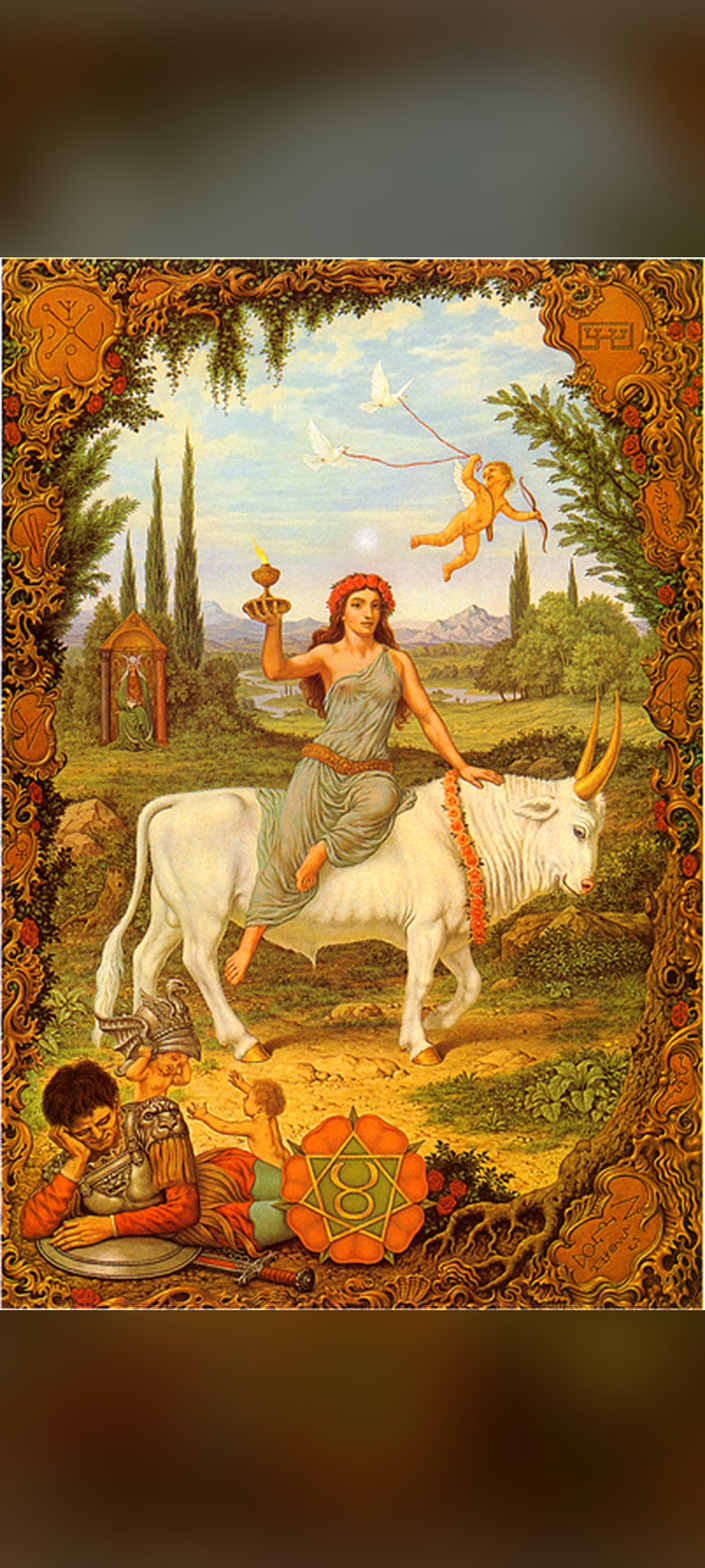
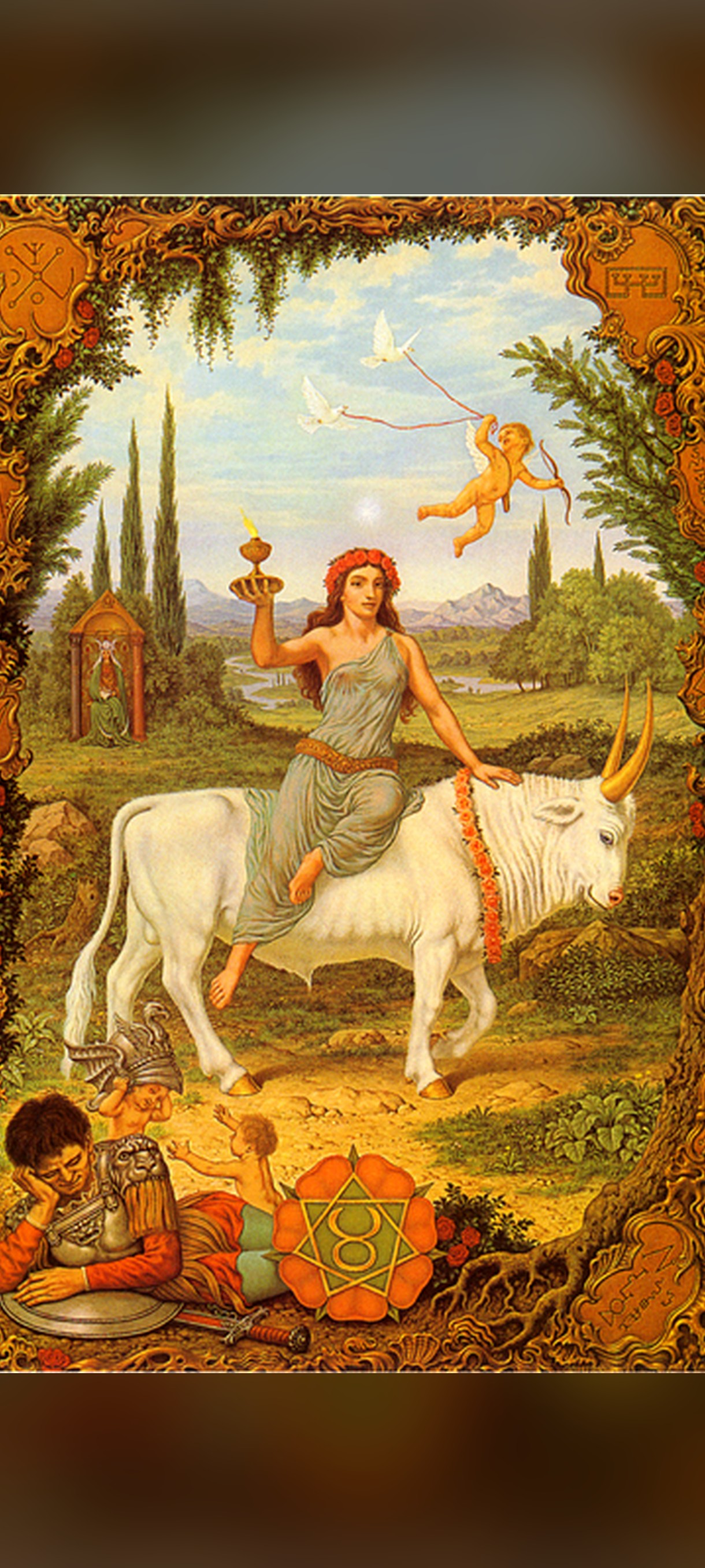
Zoom léger (12 %) du tableau dans la composition

diff --git a/scripts/update_wallpapers.py b/scripts/update_wallpapers.py
@@ -16,6 +16,8 @@ from PIL import Image, ImageEnhance, ImageFilter, ImageOps
 
 # Dimensions de l'écran du téléphone cible (Xiaomi, 1220×2712).
 WALL_W, WALL_H = 1220, 2712
+# Zoom léger du tableau : >1 agrandit (rogne un peu les bords gauche/droit).
+ZOOM = 1.12
 
 SIGNS = [
     ("aries", "Bélier"),
@@ -128,9 +130,10 @@ def make_wallpaper(src, dest):
     background = background.filter(ImageFilter.GaussianBlur(60))
     background = ImageEnhance.Brightness(background).enhance(0.45)
 
-    fg_h = round(WALL_W * painting.height / painting.width)
-    foreground = painting.resize((WALL_W, fg_h), Image.LANCZOS)
-    background.paste(foreground, (0, (WALL_H - fg_h) // 2))
+    fg_w = round(WALL_W * ZOOM)
+    fg_h = round(fg_w * painting.height / painting.width)
+    foreground = painting.resize((fg_w, fg_h), Image.LANCZOS)
+    background.paste(foreground, ((WALL_W - fg_w) // 2, (WALL_H - fg_h) // 2))
 
     import io
     buf = io.BytesIO()
